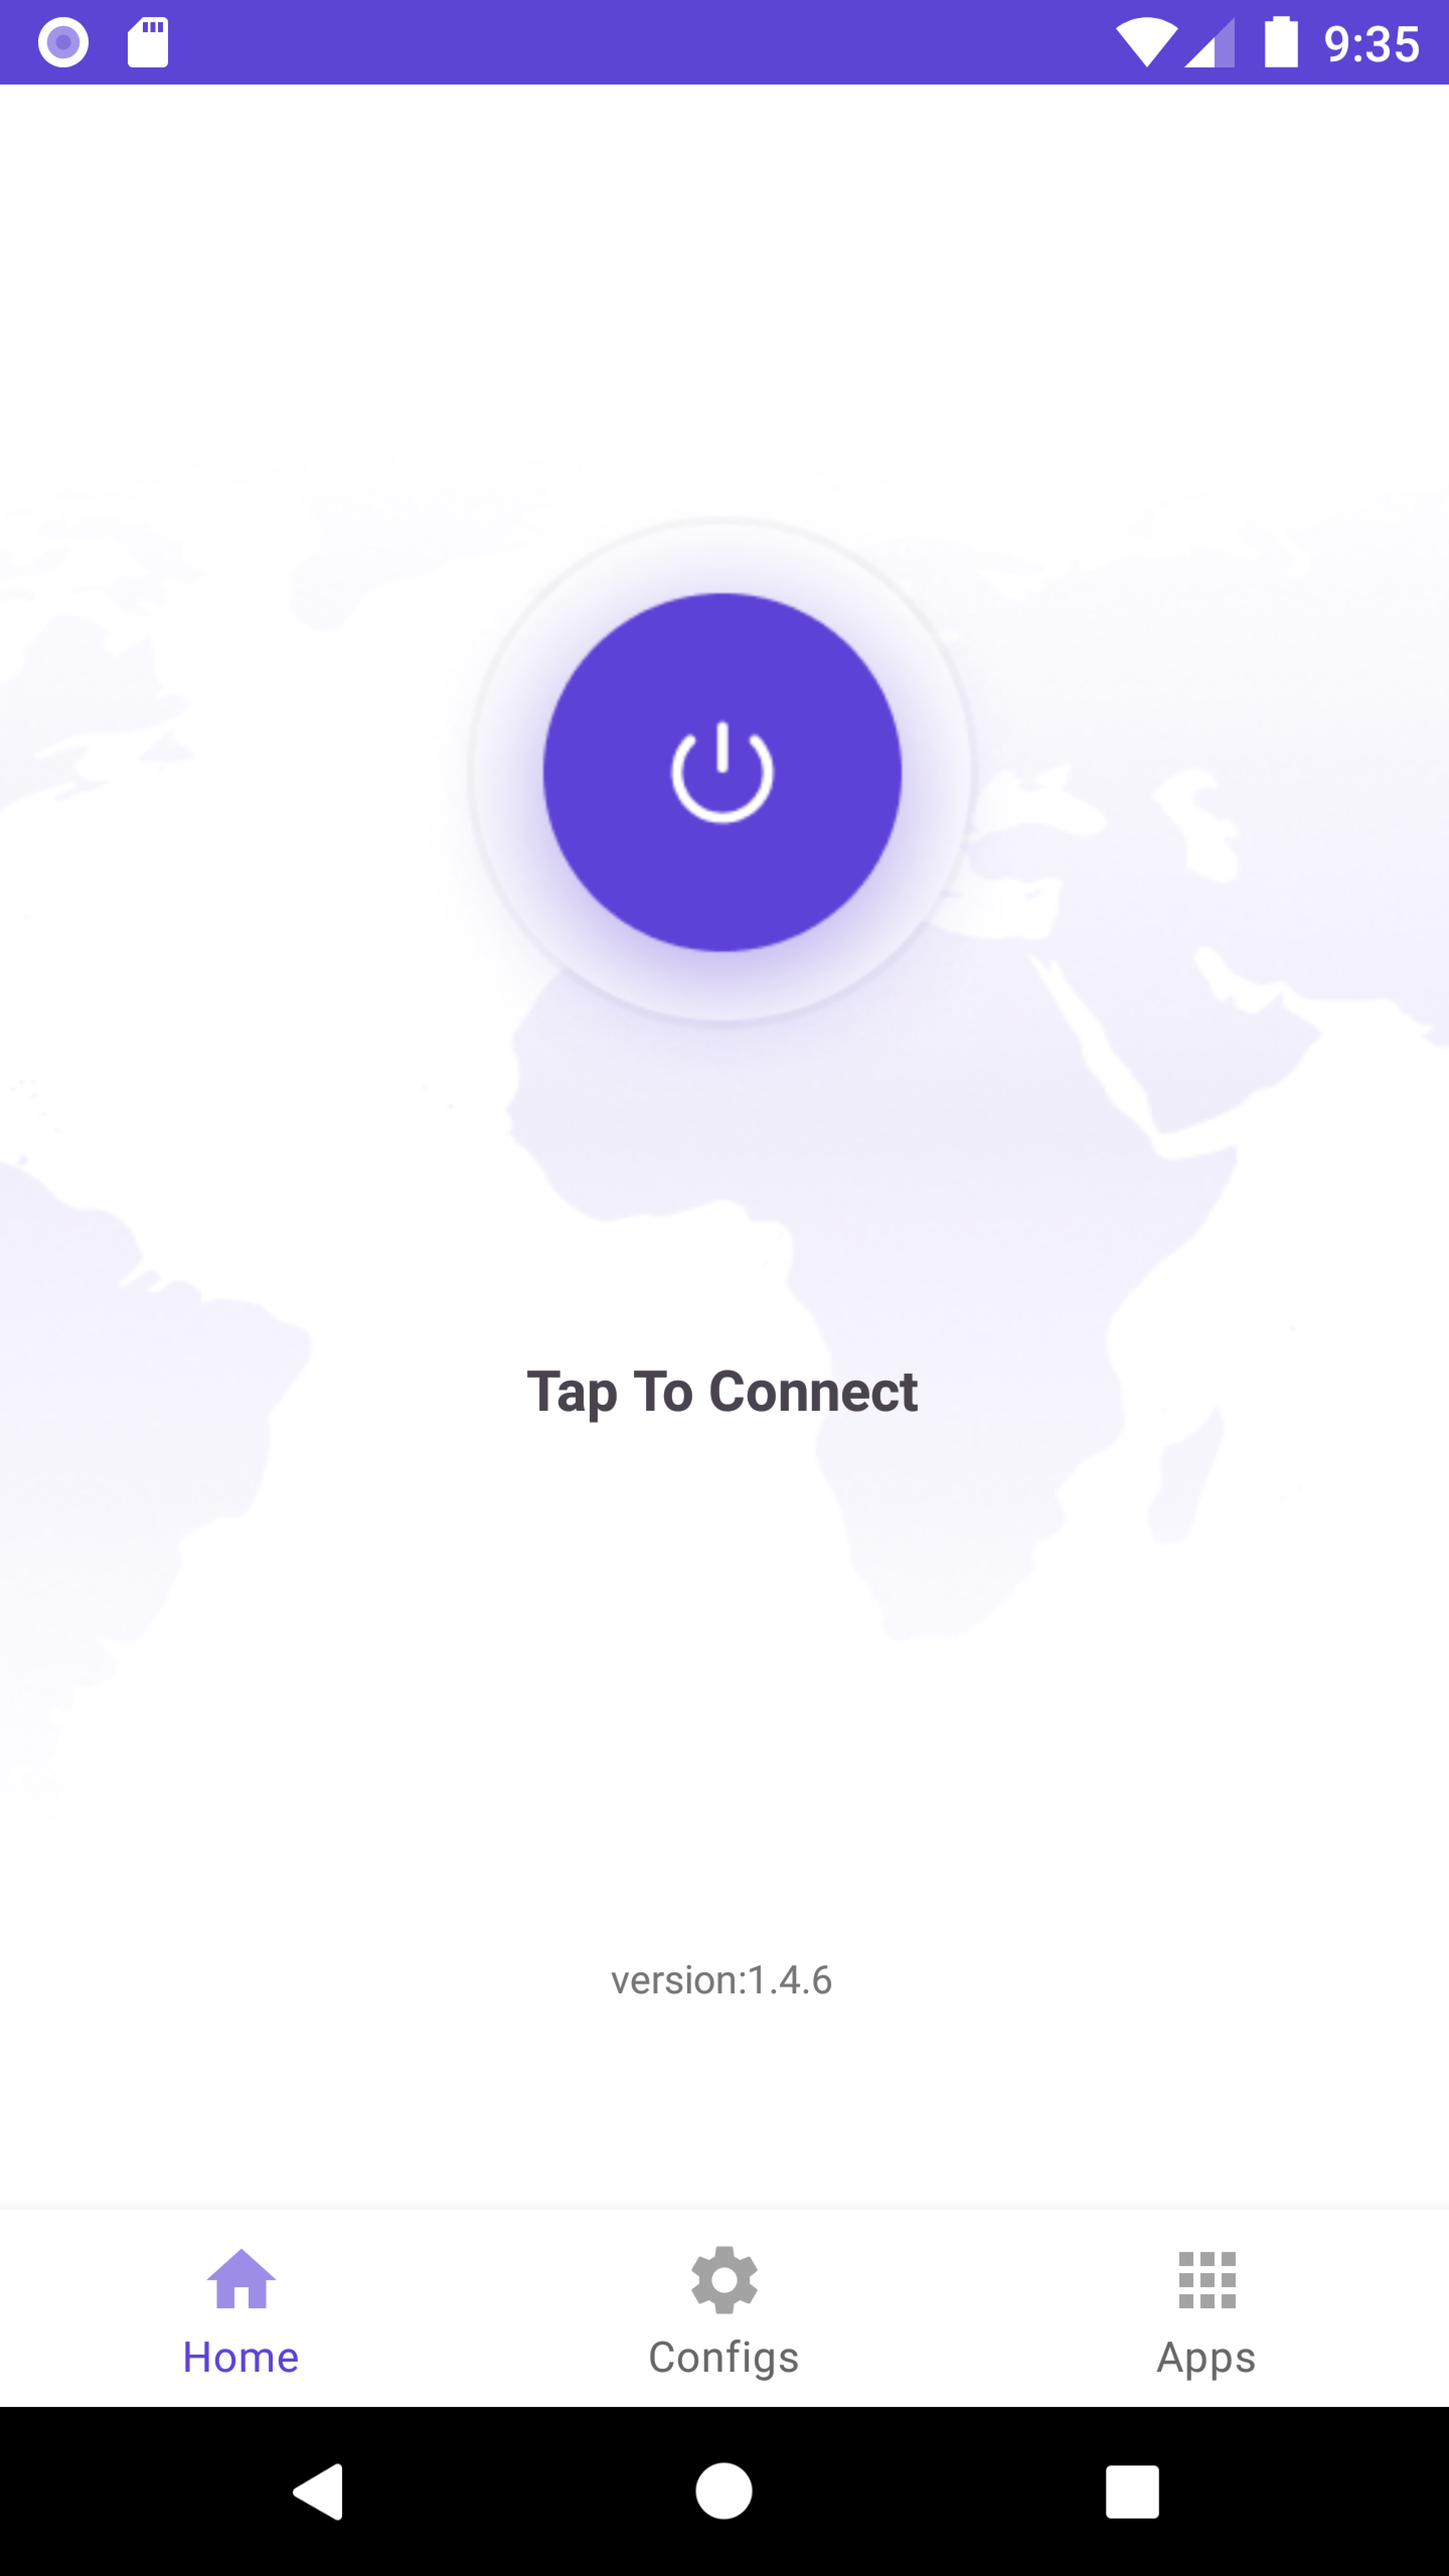
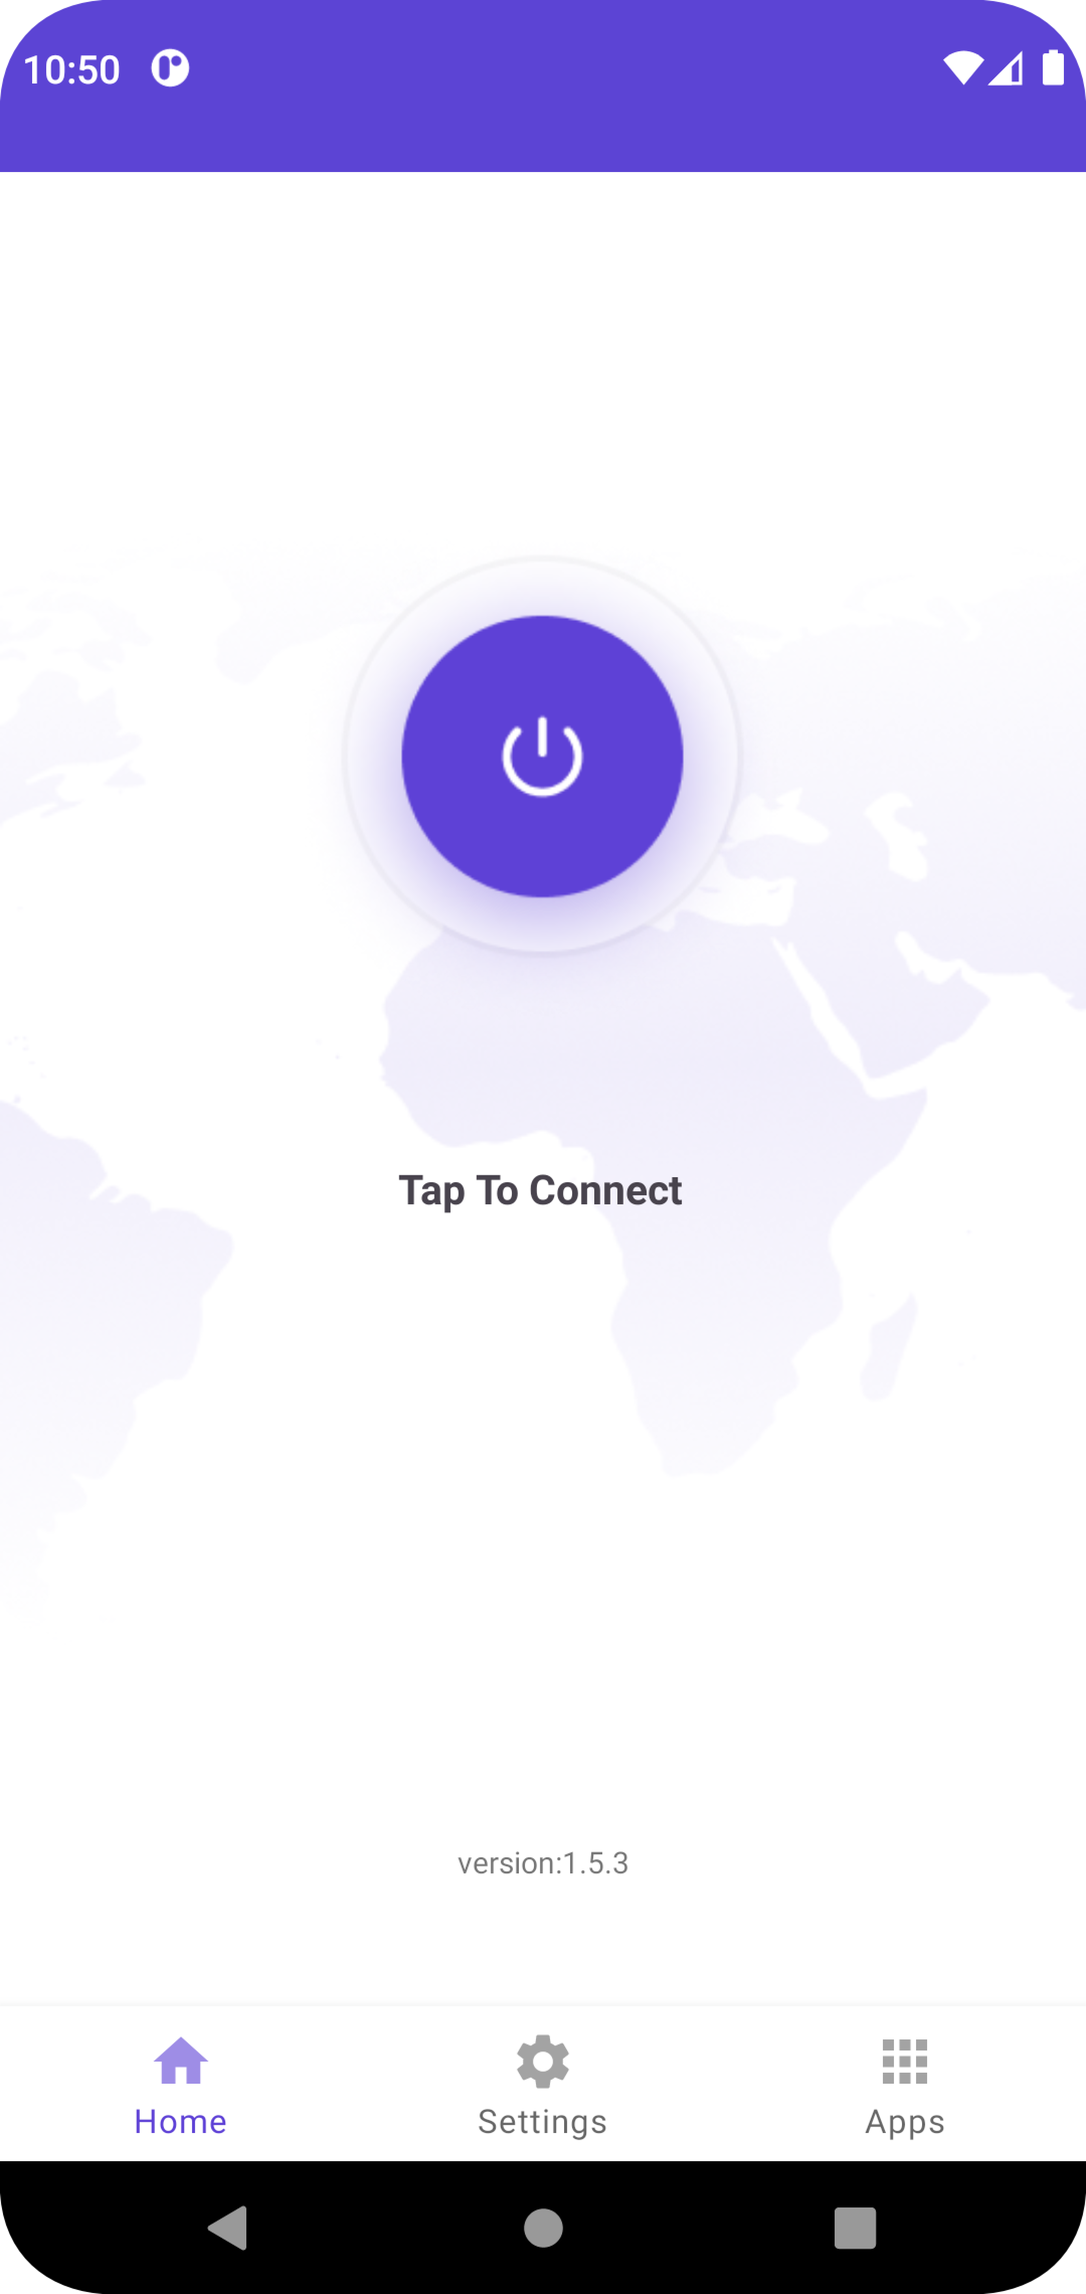
update version

diff --git a/app/src/main/java/com/netbyte/vtunnel/activity/MainActivity.java b/app/src/main/java/com/netbyte/vtunnel/activity/MainActivity.java
@@ -10,10 +10,10 @@ import androidx.fragment.app.FragmentTransaction;
 import com.google.android.material.navigation.NavigationBarView;
 import com.netbyte.vtunnel.R;
 import com.netbyte.vtunnel.fragment.AppsFragment;
-import com.netbyte.vtunnel.fragment.ConfigsFragment;
+import com.netbyte.vtunnel.fragment.SettingsFragment;
 import com.netbyte.vtunnel.fragment.HomeFragment;
 
-public class MainActivity extends AppCompatActivity  {
+public class MainActivity extends AppCompatActivity {
 
     @Override
     protected void onCreate(Bundle savedInstanceState) {
@@ -41,10 +41,10 @@ public class MainActivity extends AppCompatActivity  {
                 fragmentTransaction.commit();
                 return true;
 
-            case R.id.bottomNavigationConfigsMenuId:
-                ConfigsFragment configFragment = new ConfigsFragment();
+            case R.id.bottomNavigationSettingsMenuId:
+                SettingsFragment settingsFragment = new SettingsFragment();
                 FragmentTransaction fragmentTransaction1 = getSupportFragmentManager().beginTransaction();
-                fragmentTransaction1.replace(R.id.content, configFragment);
+                fragmentTransaction1.replace(R.id.content, settingsFragment);
                 fragmentTransaction1.commit();
                 return true;
 

diff --git a/app/src/main/java/com/netbyte/vtunnel/fragment/SettingsFragment.java b/app/src/main/java/com/netbyte/vtunnel/fragment/SettingsFragment.java
@@ -20,13 +20,13 @@ import com.netbyte.vtunnel.R;
 import com.netbyte.vtunnel.model.AppConst;
 import com.netbyte.vtunnel.utils.NetUtil;
 
-public class ConfigsFragment extends Fragment {
+public class SettingsFragment extends Fragment {
     Button btnSave;
     EditText editServer, editPath, editDNS, editKey, editObfs;
     SharedPreferences preferences;
     SharedPreferences.Editor preEditor;
 
-    public ConfigsFragment() {
+    public SettingsFragment() {
 
     }
 
@@ -37,7 +37,7 @@ public class ConfigsFragment extends Fragment {
 
     @Override
     public View onCreateView(LayoutInflater inflater, ViewGroup container, Bundle savedInstanceState) {
-        return inflater.inflate(R.layout.fragment_tab_configs, container, false);
+        return inflater.inflate(R.layout.fragment_tab_settings, container, false);
     }
 
     @Override
